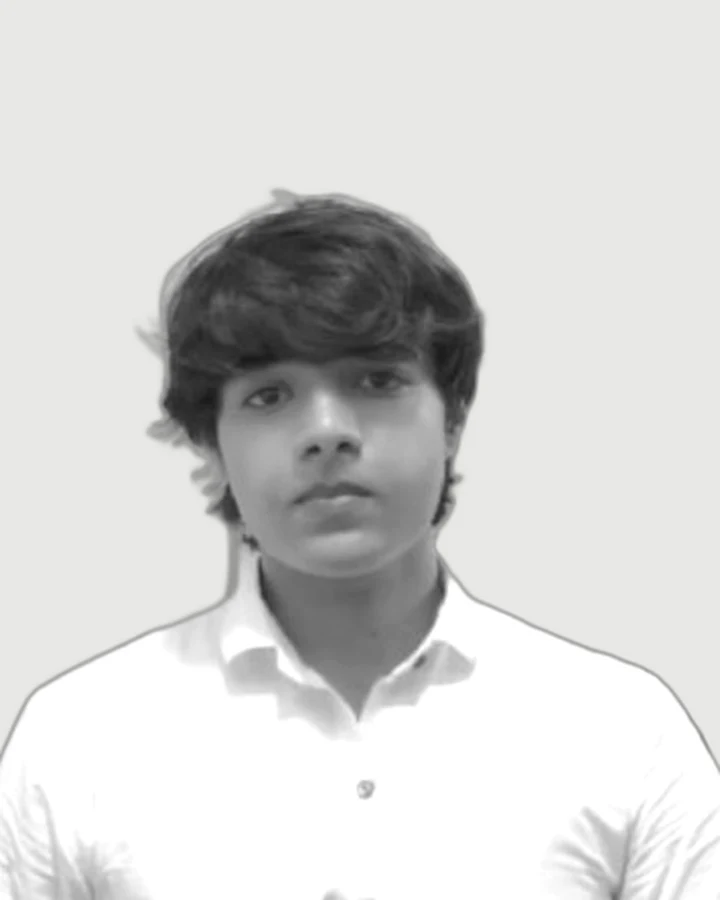
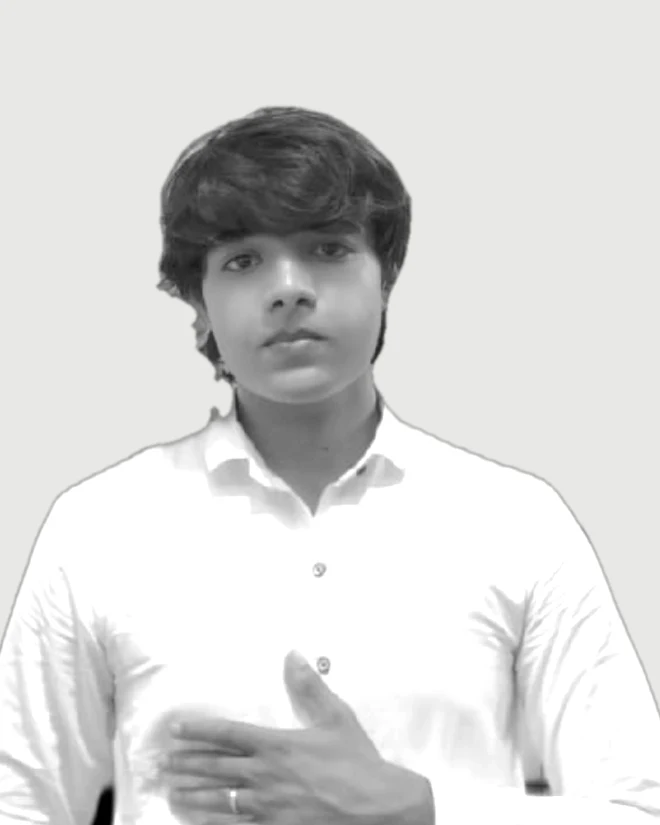
Stand Zaid's photo in the footer crowd; livelier crowd; sharper hero photo
Claude-Session: https://claude.ai/code/session_01XWgZbS1LHAfE8jrSMivopn

diff --git a/src/components/crowd/crowd.tsx b/src/components/crowd/crowd.tsx
@@ -1,9 +1,9 @@
 "use client";
 
 import { useEffect, useMemo, useRef } from "react";
-import { ME, Person, makePerson, rng, type PersonSpec } from "./person";
+import { Person, makePerson, rng, type PersonSpec } from "./person";
 
-type Placed = { p: PersonSpec; x: number; bottom: number; scale: number; row: number; delay: number; blink: number };
+type Placed = { p: PersonSpec; x: number; bottom: number; scale: number; row: number; delay: number; blink: number; dur: number };
 
 const W = 1600;
 const H = 430;
@@ -19,20 +19,39 @@ function layout(): Placed[] {
   rows.forEach((r, ri) => {
     const r2 = rng(ri * 101 + 7);
     for (let x = r.offset - 30; x < W + 30; x += r.gap * (0.9 + r2() * 0.2)) {
-      const isMe = ri === 2 && Math.abs(x + 60 * r.scale - W / 2) < r.gap / 2;
-      const p = isMe ? ME : makePerson(seed++);
       out.push({
-        p,
-        x: isMe ? W / 2 - 60 * 1.22 : x,
+        p: makePerson(seed++),
+        x,
         bottom: r.bottom,
-        scale: isMe ? 1.22 : r.scale * (0.95 + r2() * 0.1),
+        scale: r.scale * (0.95 + r2() * 0.1),
         row: ri,
-        delay: r2() * 4,
+        delay: r2() * 3,
         blink: 3 + r2() * 5,
+        dur: 2.2 + r2() * 2,
       });
     }
   });
   return out;
+}
+
+
+function renderPerson(it: Placed, i: number) {
+  const tx = it.x;
+  const ty = it.bottom - 202 * it.scale;
+  const faceCx = tx + 60 * it.scale;
+  const faceCy = ty + 60 * it.scale;
+  return (
+    <g key={`${it.row}-${i}`} transform={`translate(${tx.toFixed(1)} ${ty.toFixed(1)}) scale(${it.scale.toFixed(3)})`}>
+      <g
+        className="person"
+        style={{ animationDelay: `-${it.delay.toFixed(2)}s`, animationDuration: `${it.dur.toFixed(2)}s`, ["--blink" as string]: `${it.blink.toFixed(2)}s` }}
+      >
+        <g data-face data-cx={faceCx.toFixed(1)} data-cy={faceCy.toFixed(1)} className="look">
+          <Person p={it.p} />
+        </g>
+      </g>
+    </g>
+  );
 }
 
 export function Crowd({ name = "ZAID." }: { name?: string }) {
@@ -87,37 +106,26 @@ export function Crowd({ name = "ZAID." }: { name?: string }) {
 
   return (
     <div className="crowd relative overflow-hidden bg-white">
-      <svg ref={svgRef} viewBox={`0 0 ${W} ${H}`} preserveAspectRatio="xMidYMax slice" className="block h-[260px] w-full sm:h-[360px] lg:h-[440px]" role="img" aria-label="An illustrated crowd of people with Zaid waving in the middle">
+      <svg ref={svgRef} viewBox={`0 0 ${W} ${H}`} preserveAspectRatio="xMidYMax slice" className="block h-[260px] w-full sm:h-[360px] lg:h-[440px]" role="img" aria-label="Zaid standing in the middle of an illustrated crowd">
         <text x={W / 2} y={232} textAnchor="middle" className="crowd-name" fontSize={300} fontWeight={800} fill="#EDEDEB" letterSpacing={-12}>
           {name}
         </text>
-        {people.map((it, i) => {
-          const tx = it.x;
-          const ty = it.bottom - 202 * it.scale;
-          const faceCx = tx + 60 * it.scale;
-          const faceCy = ty + 60 * it.scale;
-          return (
-            <g key={i} transform={`translate(${tx.toFixed(1)} ${ty.toFixed(1)}) scale(${it.scale.toFixed(3)})`}>
-              <g
-                className={`person ${it.p.me ? "is-me" : ""}`}
-                style={{ animationDelay: `${it.delay.toFixed(2)}s`, ["--blink" as string]: `${it.blink.toFixed(2)}s` }}
-              >
-                <g data-face data-cx={faceCx.toFixed(1)} data-cy={faceCy.toFixed(1)} className="look">
-                  <Person p={it.p} />
-                </g>
-                {it.p.me && (
-                  <g className="me-tag">
-                    <rect x={16} y={-10} width={88} height={28} rx={14} fill="#000000" />
-                    <text x={60} y={9} textAnchor="middle" fontSize={13} fill="#fff" fontFamily="var(--font-geist), sans-serif" fontWeight={600}>
-                      that&apos;s me
-                    </text>
-                    <path d="M 54 17 L 60 25 L 66 17 Z" fill="#000000" />
-                  </g>
-                )}
-              </g>
-            </g>
-          );
-        })}
+        <defs>
+          <filter id="ink-outline" x="-5%" y="-5%" width="110%" height="110%">
+            <feMorphology in="SourceAlpha" operator="dilate" radius="3" result="grow" />
+            <feFlood floodColor="#000" />
+            <feComposite in2="grow" operator="in" result="outline" />
+            <feMerge>
+              <feMergeNode in="outline" />
+              <feMergeNode in="SourceGraphic" />
+            </feMerge>
+          </filter>
+        </defs>
+        {people.filter((it) => it.row === 0).map(renderPerson)}
+        <g className="standing">
+          <image href="/zaid-standing.webp" x={W / 2 - 194} y={14} width={388} height={482} preserveAspectRatio="xMidYMin meet" filter="url(#ink-outline)" />
+        </g>
+        {people.filter((it) => it.row > 0 && !(it.row === 1 && Math.abs(it.x + 60 * it.scale - W / 2) < 120)).map(renderPerson)}
       </svg>
     </div>
   );

diff --git a/src/app/globals.css b/src/app/globals.css
@@ -84,19 +84,17 @@
 
 
 /* ── crowd ─────────────────────────────────────────── */
-.crowd .person { transform-box: fill-box; transform-origin: 50% 100%; animation: sway 6s ease-in-out infinite; cursor: default; }
-@media (hover: hover) { .crowd .person:hover { animation: hop .55s cubic-bezier(.3,.7,.3,1.4) 1, sway 6s ease-in-out infinite .55s; } }
+.crowd .person { transform-box: fill-box; transform-origin: 50% 100%; animation: bob 3s ease-in-out infinite; cursor: default; }
+@media (hover: hover) { .crowd .person:hover { animation: hop .55s var(--ease-out) 1 !important; } }
 .crowd .look { transition: transform .35s cubic-bezier(.2,.7,.2,1); }
 .crowd .eyes { transform-box: fill-box; transform-origin: 50% 50%; animation: blink var(--blink, 5s) infinite; }
 .crowd .wave-arm { transform-box: fill-box; transform-origin: 15% 95%; animation: wave 2.6s ease-in-out infinite; }
 .crowd .is-me:hover .wave-arm { animation-duration: .7s; }
-.crowd .me-tag { transform-box: fill-box; transform-origin: 50% 100%; animation: bob 2.6s ease-in-out infinite; }
 .crowd-name { font-family: var(--font-geist), system-ui, sans-serif; }
-@keyframes sway { 0%,100% { transform: rotate(0deg); } 50% { transform: rotate(1.4deg) translateY(-1px); } }
+@keyframes bob { 0%,100% { transform: translateY(0) rotate(0deg); } 30% { transform: translateY(-5px) rotate(-1.6deg); } 60% { transform: translateY(-1px) rotate(1.4deg); } }
 @keyframes hop { 0% { transform: translateY(0); } 40% { transform: translateY(-16px) rotate(-2deg); } 100% { transform: translateY(0); } }
 @keyframes blink { 0%, 94%, 100% { transform: scaleY(1); } 96% { transform: scaleY(.1); } }
 @keyframes wave { 0%, 60%, 100% { transform: rotate(0deg); } 70% { transform: rotate(-14deg); } 80% { transform: rotate(8deg); } 90% { transform: rotate(-10deg); } }
-@keyframes bob { 0%,100% { transform: translateY(0); } 50% { transform: translateY(-4px); } }
 
 /* ── folders ───────────────────────────────────────── */
 .folder .sheet { transition: transform .55s var(--ease-out); }
